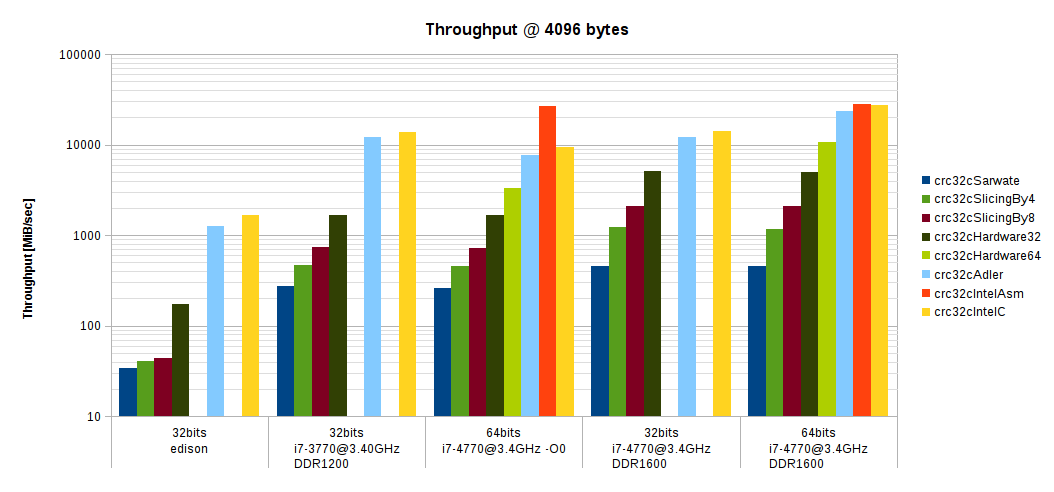
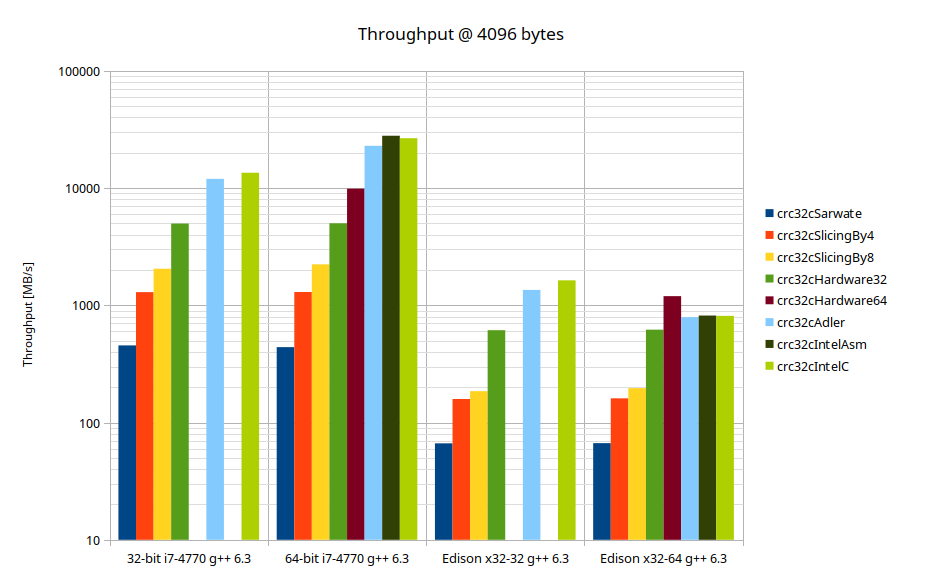
benchmarking: new benchmarks with gcc 6.3. Added edison 64 bits data with edison on linux 4.13 x86_64.

diff --git a/README.md b/README.md
@@ -44,11 +44,6 @@ To enable debug info and disable optimizations type:
 DEBUG=TRUE make all
 ```
 
-And to enable building for the Intel Edison (in the Yocto build envirnment):
-```sh
-EDISON=TRUE make all
-```
-
 ## Tests
 
 `./crc32c_test` performs a series of tests on each algorithm to make sure they have the same results.
@@ -61,12 +56,13 @@ Benchmarks can be run with the built-in benchmark program as follows:
 ./crc32cbench
 ```
 
-Benchmarks have been collected in the provided Libreoffice Calc file. The following graph shows the results for a buffer size of 4096 bytes.
+The following graph shows the results for a buffer size of 4096 bytes.
 ![Benchmarks](crc32c-benchmarks.png)
 
-Note: With Adler and IntelC using 64bits gives a factor 2x improvement. On 64 bits, using SlicingBy8 (the best software based method) is 4.6x better than Sarwate. Using Hardware64 is 5x better that SlicingBy8. IntelC is 2.6x better than Hardware64.
+On i7 with Adler and IntelC using 64bits gives a factor 2x improvement as expected. On 64 bits, using SlicingBy8 (the best software based method) is 5.1x better than Sarwate. Using Hardware64 is 4.2x better that SlicingBy8. IntelC is 2.7x better than Hardware64.
 
-On Edison IntelC is 38x better than SlicingBy8.
+On 32-bit Edison IntelC is 8.8x better than SlicingBy8. 
+On 64-bit Edison all optimized methods (Hardware64, Adler, Intel) are regressing and slower than Hardware64. The fastest method is slower than the fastest on 32-bits.
 
 ## License
 
